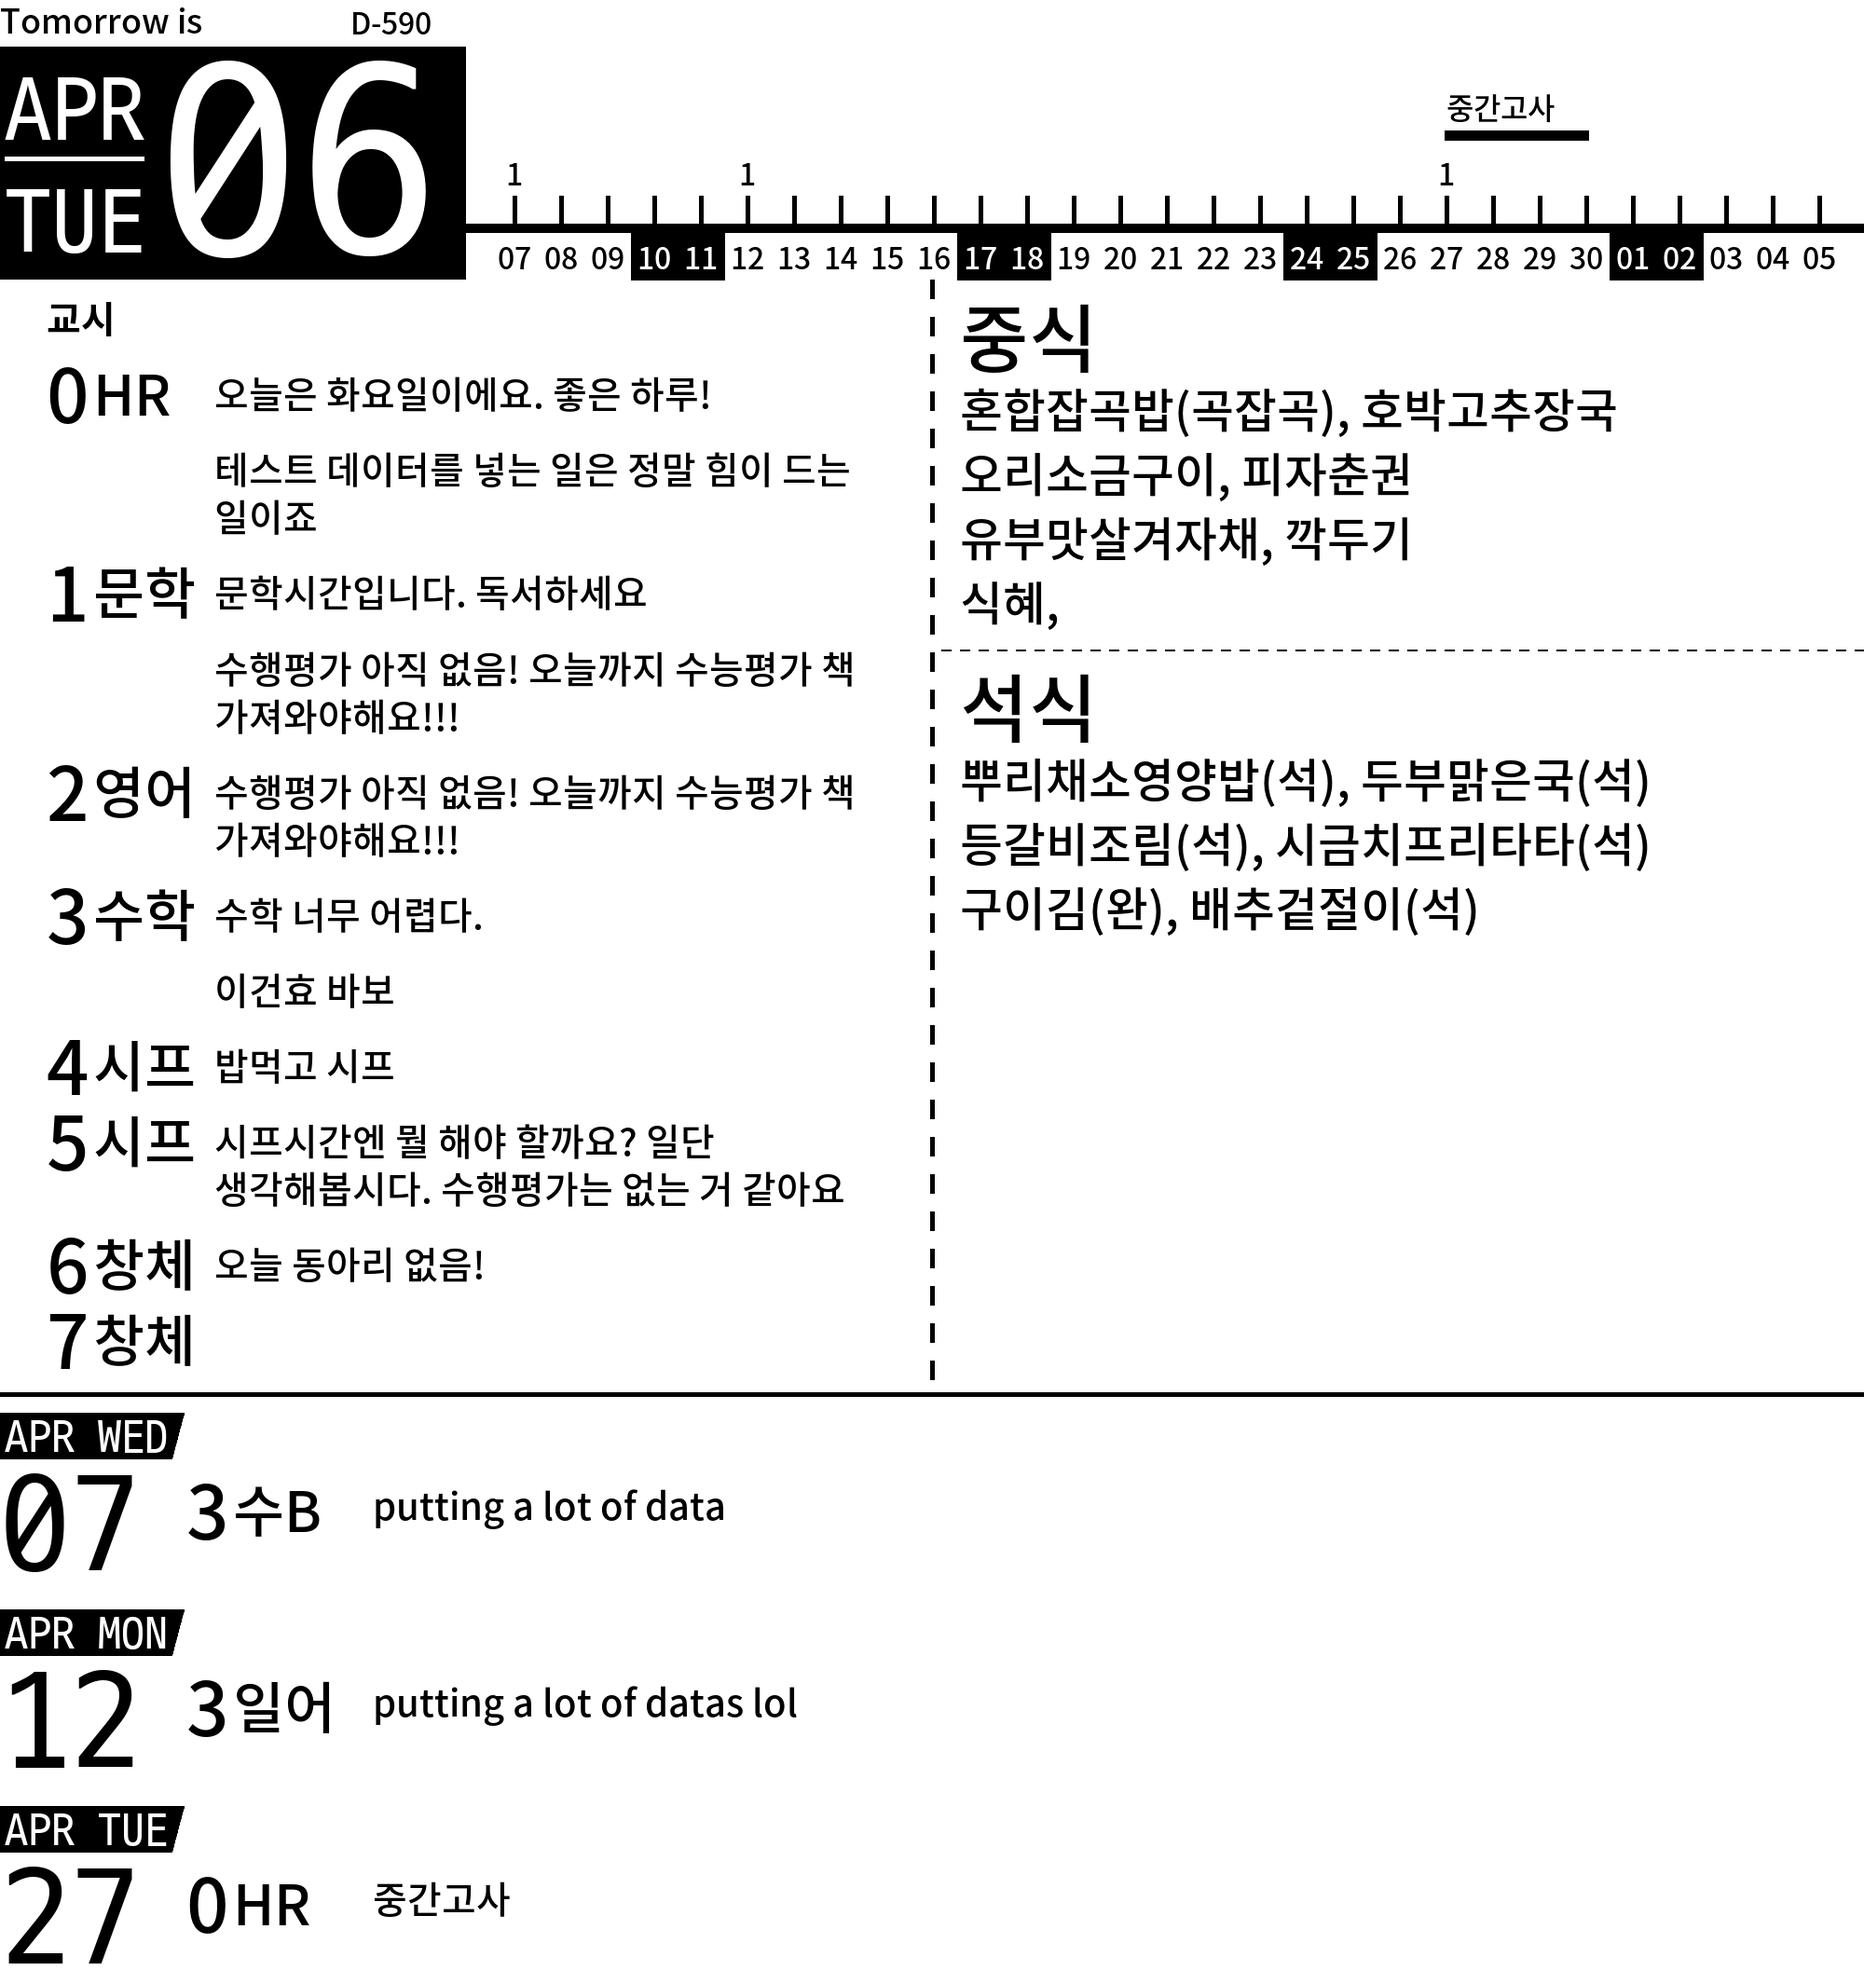
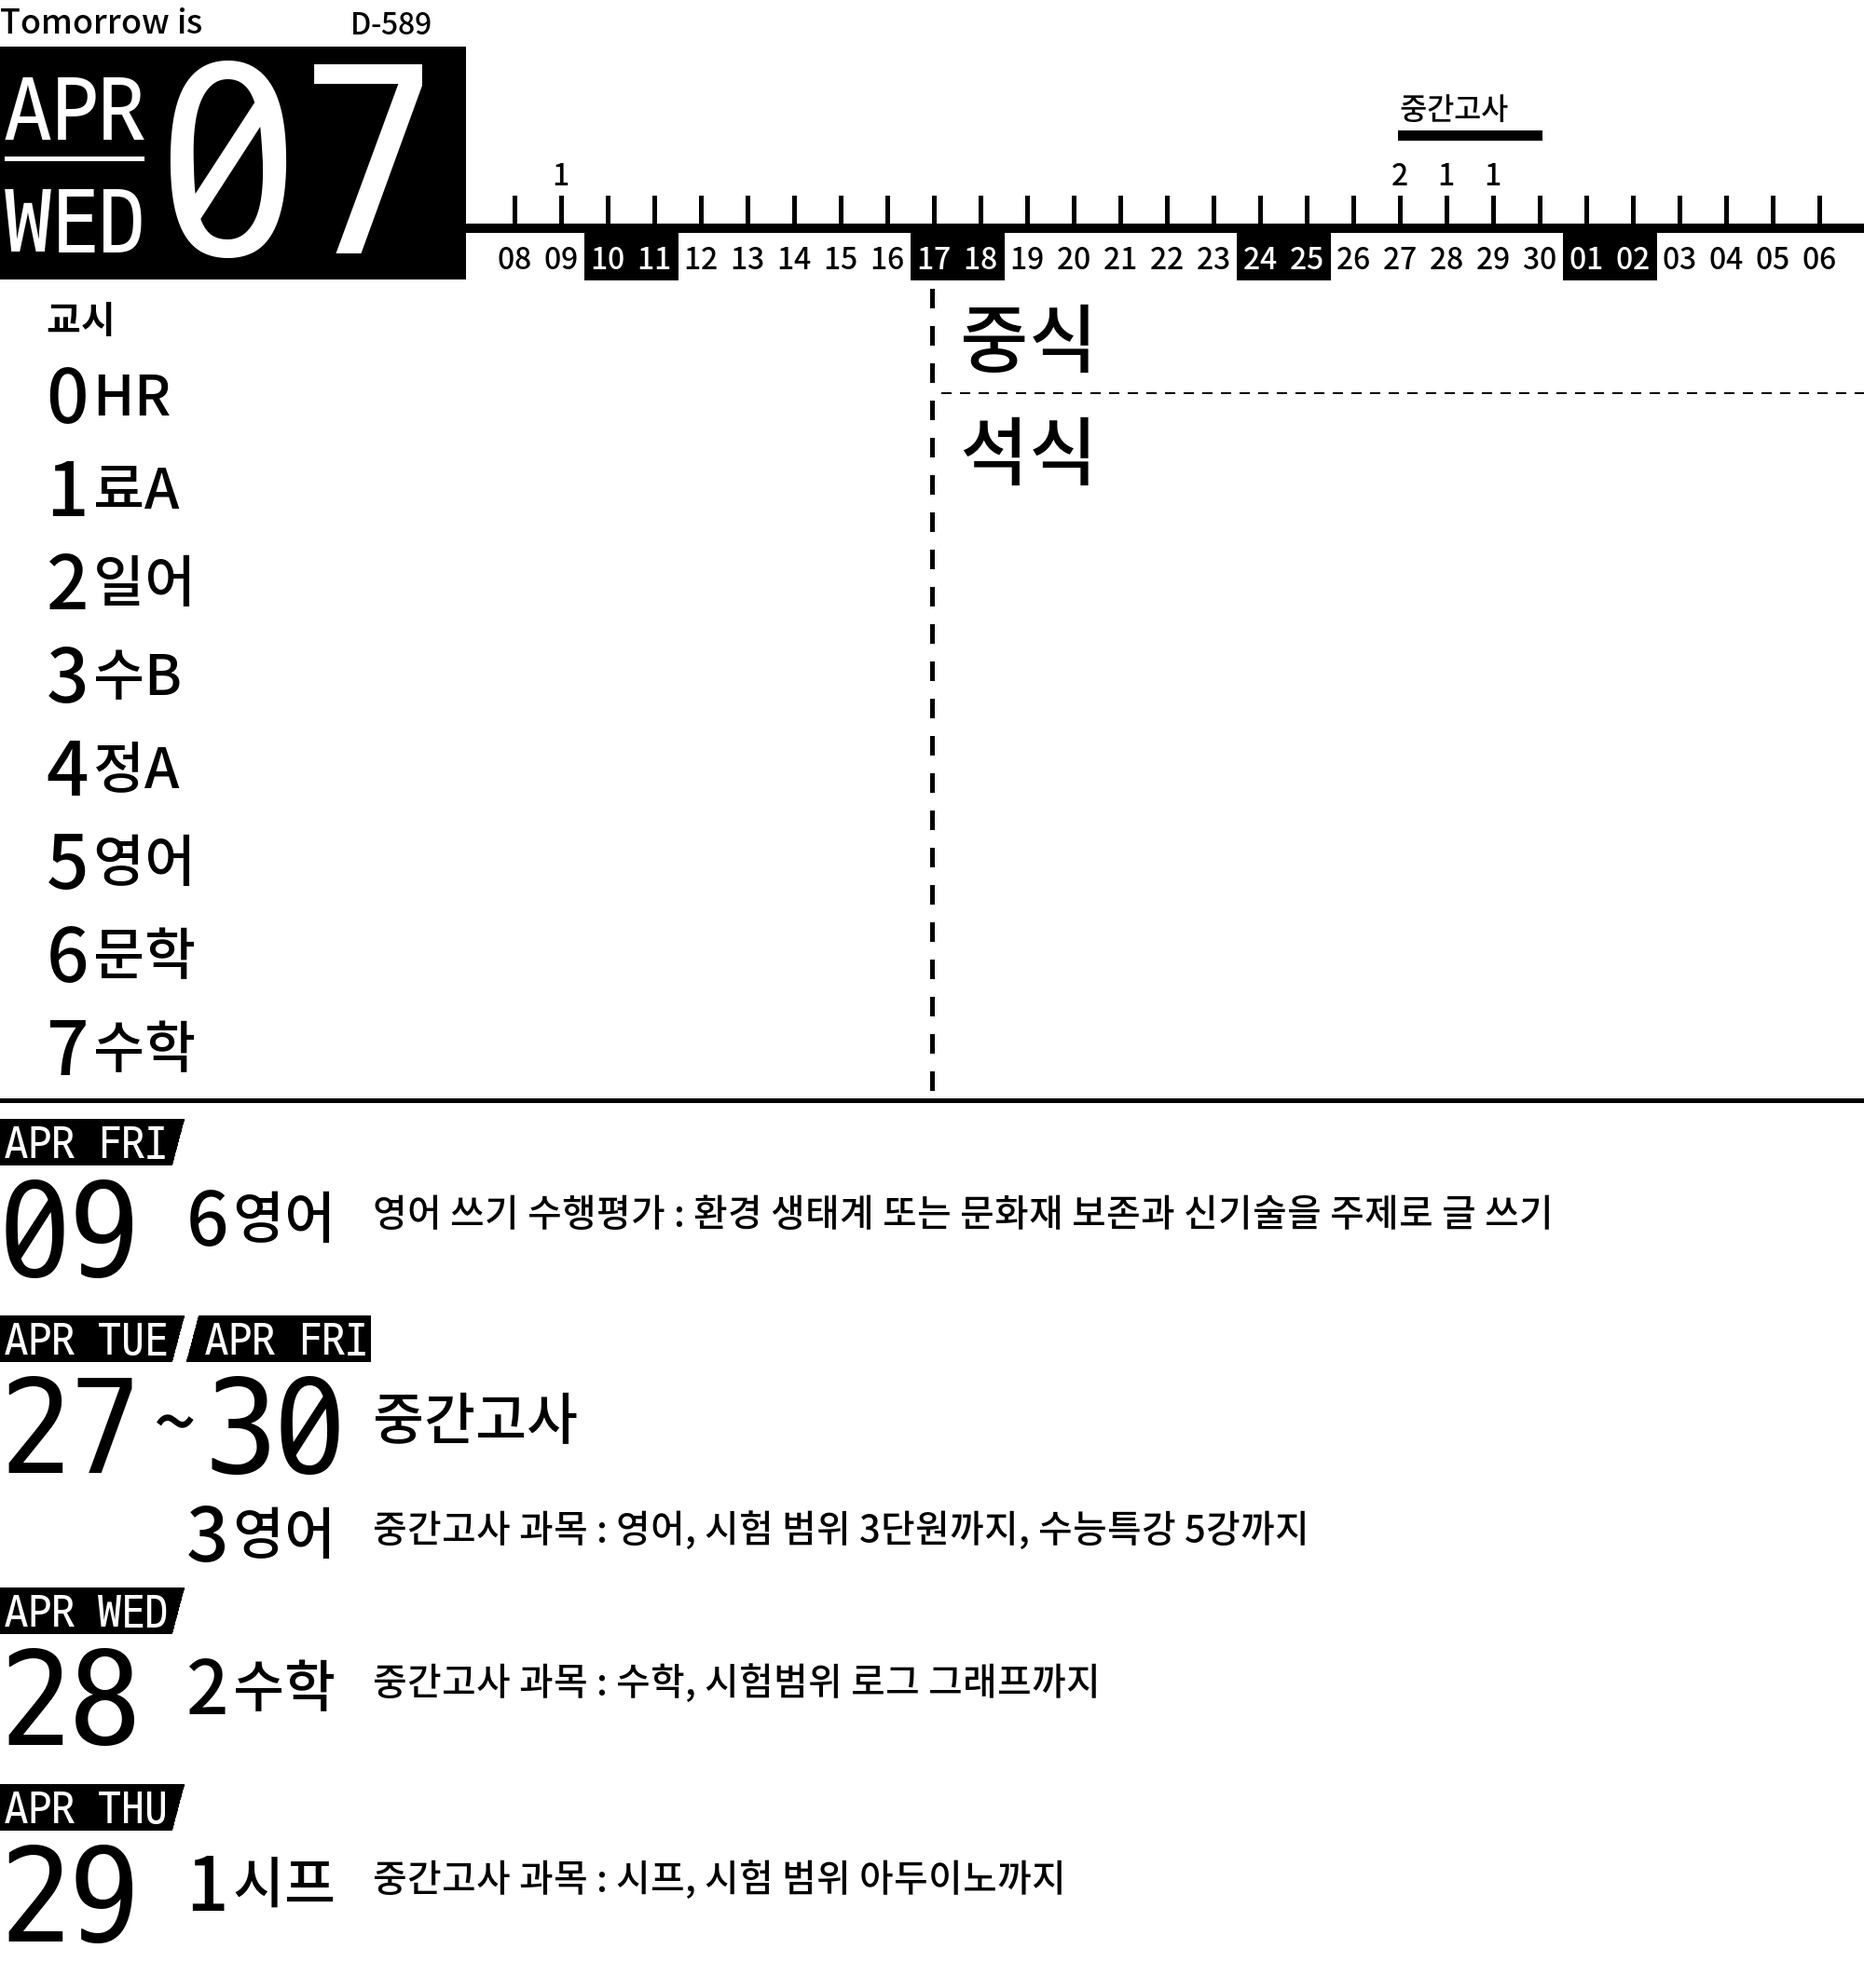
added duration to photo, custom period name

diff --git a/main.py b/main.py
@@ -30,12 +30,12 @@ insertcursor = _db.cursor(pymysql.cursors.Cursor)
 
 #SQL 구문 모음
 _readtest = "SELECT * FROM %s;"
-_select_sorted_data = "SELECT date, period, description, duration FROM %s ORDER BY date ASC, period ASC;"
+_select_sorted_data = "SELECT date, period, description, duration, changeperiod FROM %s ORDER BY date ASC, period ASC;"
 _adddata = 'INSERT INTO %s'
 #------------
 
 #SQL에 쓰이는 변수 모음
-__table_name = 'test'
+__table_name = 'schedule'
 __select = 'SELECT'
 
 #------------
@@ -71,7 +71,7 @@ _TIMETABLE = [
     [_LIT, _ENG, _MAT, _SYS, _SYS, _SPE, _SPE],
     [_DTA, _JAP, _MTB, _IFA, _ENG, _LIT, _MAT],
     [_SYS, _SYS, _MTA, _SPC, _JAP, _MUS, _DTB],
-    [_MAT, _LIT, _IND, _SYS, _SYS, _JAP, _SCF],
+    [_MAT, _LIT, _IND, _SYS, _SYS, _ENG, _SCF],
     [_NON, _NON, _NON, _NON, _NON, _NON, _NON],
     [_NON, _NON, _NON, _NON, _NON, _NON, _NON]
 ]
@@ -183,6 +183,7 @@ def dataquery():
         period = None
         desc = None
         dur = None
+        changeperiod = None
         for key, value in dic.items():
             if isinstance(value, type(datetime.date)):
                 value = value.strftime("%m/%d")
@@ -195,9 +196,11 @@ def dataquery():
                 desc = value
             elif key == 'duration':
                 dur = value
+            elif key == 'changeperiod':
+                changeperiod = value
 
         #print(date + " " + period + " " + desc)
-        stddic.setdefault(date,[]).append((period, desc, dur))
+        stddic.setdefault(date,[]).append((period, desc, dur, changeperiod))
 def setupperpart():
     upper_part = Image.open('Image Files\\Upper bar.png' , 'r')
 
@@ -279,16 +282,25 @@ def settomorrowdata():
     cury = printmultiplelines(kyoshi, 40, 50, cury + 10, kyoshifont, (0, 0, 0))
     
     perioddata = [[] for i in range(10)]
+    changeperioddata = [[] for i in range(10)]
+
     if(tomorrowstr in stddic):
         for dat in stddic[tomorrowstr]:
             perioddata[int(dat[0])].append(dat[1])
+            changeperioddata[int(dat[0])] = dat[3]
+            print(dat[3])
+
 
     #print(perioddata)
     for curperiod in range(0, 8):
         printmultiplelines(str(curperiod), 40, 50, cury, periodfont, (0, 0, 0))
         cursub = str(_TIMETABLE[temptomorrow.weekday()][curperiod - 1])
+
         if(curperiod == 0):
             cursub = 'HR'
+        if changeperioddata[curperiod]:
+            cursub = str(changeperioddata[curperiod])
+        
         printmultiplelines(cursub, 40, 100, cury + 15, periodnamefont, (0, 0, 0))
         beforey = cury
         for dat in perioddata[curperiod]:
@@ -299,7 +311,7 @@ def settomorrowdata():
     cury += 20
 
     cury = max(cury, gupsiky)
-    linedashed(1000, tempy, 1000, cury, 20, 2, 5)
+    linedashed(1000, tempy + 10, 1000, cury, 20, 2, 5)
     linedashed(0, cury, 2000, cury, 40, 1, 5)
     return cury
 
@@ -347,7 +359,9 @@ def printfooddata(cury):
 def setbottompart(cury):
     lower_part = Image.open('Image Files\Down bar.png', 'r')
     lower_part = Image.composite(lower_part, Image.new('RGB', lower_part.size, 'white'), lower_part)
-
+    lower_part_flipped = Image.open('Image Files\Down bar Flipped.png', 'r')
+    lower_part_flipped = Image.composite(lower_part_flipped, Image.new('RGB', lower_part_flipped.size, 'white'), lower_part_flipped)
+    
     datefont = getfont(___d2coding_font, 150)
     datefontsmall = getfont(___d2coding_font, 50)
     textfont = getfont(___noto_sans, 40)
@@ -355,6 +369,7 @@ def setbottompart(cury):
     periodnamefont = getfont(___noto_sans, 60)
 
     for key, value in stddic.items():
+
         curdate = datetime.date(datetime.strptime(key, '%Y-%m-%d'))
 
         monthstr = curdate.strftime('%b').upper()
@@ -363,17 +378,52 @@ def setbottompart(cury):
         weekdaystr = curdate.strftime('%a').upper()
 
         perioddata = [[] for i in range(10)]
+        dur = -1
+        durdesc = None
+        for data in value:
+            tempdur = int(data[2])
+            if int(tempdur) > 0:
+                dur = ((curdate + timedelta(days=tempdur)) - tomorrow).days
+                durdesc = str(data[1])
+
+        if(curdate <= tomorrow and dur < 0):
+            continue
+        
+        print(dur)
+        durdate = tomorrow + timedelta(days=dur)
+
+        cury += 20
+        img.paste(lower_part, (0, cury))
+        if(dur >= 0):
+            img.paste(lower_part_flipped, (200, cury))
+            durmonthstr = durdate.strftime('%b').upper()
+            durweekdaystr = durdate.strftime('%a').upper()
+            durdaystr = durdate.strftime('%d')
+            printmultiplelines("~", 20, 165, cury + 50, periodfont, (0, 0, 0))
+            printmultiplelines(durmonthstr + " " + durweekdaystr, 20, 220, cury, datefontsmall, (255, 255, 255))
+            cury = printmultiplelines(monthstr + " " + weekdaystr, 20, 5, cury, datefontsmall, (255, 255, 255))
+            printmultiplelines(durdesc, 30, 400, cury + 20, periodnamefont, (0, 0, 0))
+            printmultiplelines(daystr, 20, 0, cury, datefont, (0, 0, 0))
+            cury = printmultiplelines(durdaystr, 20, 220, cury, datefont, (0, 0, 0))
 
         if(curdate <= tomorrow):
             continue
 
-        cury += 20
-        img.paste(lower_part, (0, cury))
-        cury = printmultiplelines(monthstr + " " + weekdaystr, 20, 5, cury, datefontsmall, (255, 255, 255))
-        tempy = printmultiplelines(daystr, 20, 0, cury, datefont, (0, 0, 0))
+        tempy = cury
+
+        if(dur == -1):
+            cury = printmultiplelines(monthstr + " " + weekdaystr, 20, 5, cury, datefontsmall, (255, 255, 255))
+            tempy = printmultiplelines(daystr, 20, 0, cury, datefont, (0, 0, 0))
+
+        changeperioddata = [[] for i in range(10)]
+
+        for dat in stddic[key]:
+            changeperioddata[int(dat[0])] = dat[3]
 
         for data in value:
             curperiod = int(data[0])
+            if int(data[2]) > 0:
+                continue
             if curperiod > 7:
                 curperiod = 0
             perioddata[curperiod].append(data[1])
@@ -381,18 +431,17 @@ def setbottompart(cury):
         for period in range(0, 8):
             if not perioddata[period]:
                 continue
-            print(perioddata[period])
             cursub = str(_TIMETABLE[weekday][period - 1])
             if period == 0:
                 cursub = "HR"
+            
+            if changeperioddata[period]:
+                cursub = changeperioddata[period]
+            
             printmultiplelines(str(period), 30, 200, cury, periodfont, (0, 0, 0))
             printmultiplelines(cursub, 30, 250, cury + 15, periodnamefont, (0, 0, 0))
             for data in perioddata[period]:
-                cury = printmultiplelines(data, 30, 400, cury + 25, textfont, (0, 0, 0))
-
-
-        print(tempy)
-        print(cury)
+                cury = printmultiplelines(data, 45, 400, cury + 25, textfont, (0, 0, 0))
         cury = max(tempy, cury)
         cury += 20
     return cury
@@ -408,10 +457,8 @@ def imageinit(): #이미지의 크기를 미리 결정
 
 # cursor position init
 
-
-#print(jungsik)
-#jungsik = ['무오이장아찌아아아아아아아아아아아아아아아아아아', '혼합잡곡밥(곡잡곡)', '감자양파국', '파채불고기', '하트연근전', '상추쌈&쌈장', '배추김치']
 dataquery()
+print(stddic)
 imagex, imagey = imageinit()
 img = Image.new('RGB', (imagex, imagey), color = 'white') # create img
 dt = ImageDraw.Draw(img) # make text draw cursor
